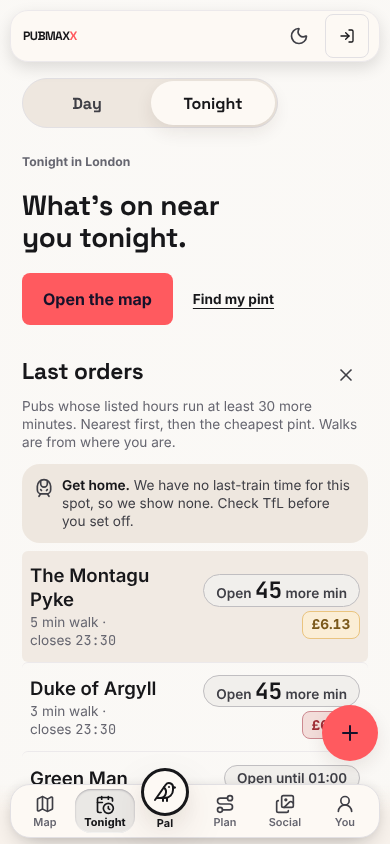
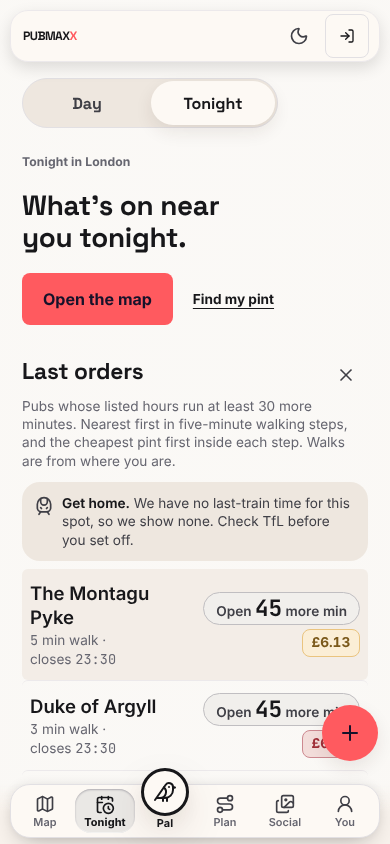
docs(evidence): Last orders map filter screenshots

diff --git a/docs/evidence/last-orders/README.md b/docs/evidence/last-orders/README.md
@@ -9,3 +9,13 @@
 | [last-orders-located-390x844.png](last-orders-located-390x844.png) | Phone with a shared position in Soho. The last-train answer is empty, so the line says there is no time and shows none. |
 
 Hours are OpenStreetMap `opening_hours`, read 5 October 2026. Pint prices are the curated venue index, read 2 October 2026.
+
+## The map filter
+
+| Shot | What it shows |
+| --- | --- |
+| [map-last-orders-390x844.png](map-last-orders-390x844.png) | Phone map opened with `/map?lastOrders=1`. The Filters control counts one filter. |
+| [map-last-orders-filters-390x844.png](map-last-orders-filters-390x844.png) | Phone Filters sheet with Last orders on, and the map behind it with the pins narrowed. |
+| [map-last-orders-1280x800.png](map-last-orders-1280x800.png) | Desktop Filters panel with Last orders on and its caption. The shot was taken before the basemap painted, so the count it shows (6) is from a part-loaded map, not the final count. |
+
+The list and the map shots above were re-taken on head `0ef3cc0b` after the review fixes.
